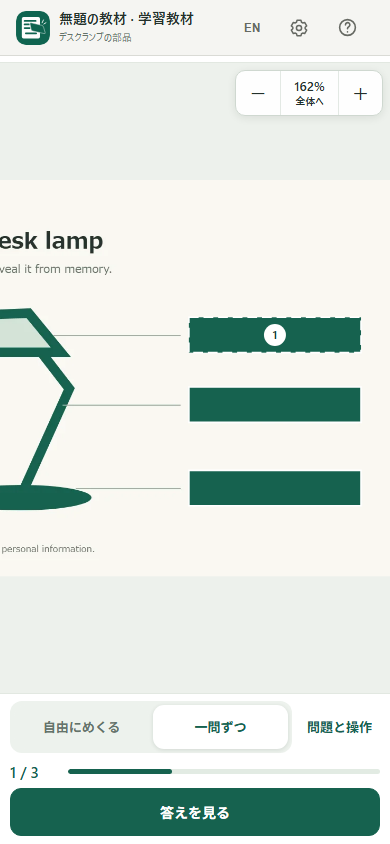
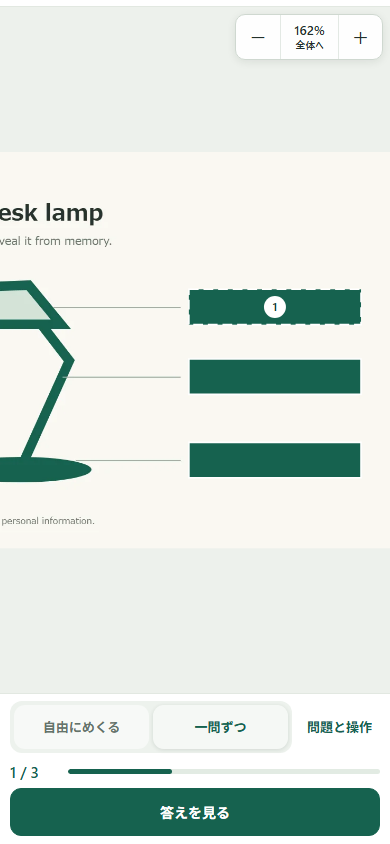
Hide the header while studying on a phone

diff --git a/src/index.template.html b/src/index.template.html
@@ -213,8 +213,8 @@ body:not(.has-pages) { padding-bottom:0; }
 #studyToolsButton { display:none; }
 @media (max-width:767px), (pointer:coarse) and (max-height:520px) {
   body.has-pages.study-mode { display:flex;flex-direction:column;height:100dvh;min-height:0;margin:0;padding:0;overflow:hidden; }
-  .study-mode .app-header { flex:none;padding-top:env(safe-area-inset-top); }
-  .study-mode .main { display:flex;flex:1;flex-direction:column;width:100%;min-height:0;margin:0;padding:0; }
+  .study-mode .app-header { display:none; }
+  .study-mode .main { display:flex;flex:1;flex-direction:column;width:100%;min-height:0;margin:0;padding:env(safe-area-inset-top,0px) 0 0; }
   .study-mode footer { display:none; }
   .study-mode .main .reveal-shell { display:flex;flex:1;flex-direction:column;min-height:0;height:auto;gap:0;margin:0;padding:0;border:0;border-radius:0;overflow:hidden;background:var(--surface); }
   .study-mode .main .reveal-grid { order:0;display:block;flex:1 1 0;min-width:0;min-height:0;margin:0; }
@@ -246,6 +246,9 @@ body:not(.has-pages) { padding-bottom:0; }
   .study-mode #freeStudyPanel.with-study-notes { min-height:calc(22px + clamp(44px,8dvh,76px)); }
   .study-mode #freeAnswerBox { max-height:clamp(44px,8dvh,76px);overflow:auto;margin:0; }
   .editor-sheet[data-sheet="study"] .dialog-body { display:grid;align-content:start;gap:12px; }
+  .editor-sheet[data-sheet="study"] .header-actions { justify-content:flex-start;flex-wrap:wrap;gap:6px;margin:0; }
+  .editor-sheet[data-sheet="study"] .header-actions button { display:inline-flex;align-items:center;justify-content:center;gap:6px;min-width:44px;min-height:44px;width:auto;padding:5px 8px; }
+  .editor-sheet[data-sheet="study"] #helpButton::after { content:attr(aria-label);font-size:13px; }
   .editor-sheet[data-sheet="study"] :is(.guided-secondary-actions,.study-actions,#questionList,#guidedQuestionList) { display:grid;grid-template-columns:repeat(2,minmax(0,1fr));gap:8px;margin:0;padding:0; }
   .editor-sheet[data-sheet="study"] :is(.button,.question-item) { min-height:46px;min-width:0;white-space:normal; }
   .editor-sheet[data-sheet="study"] .free-question { display:flex;flex-direction:column;align-items:start;gap:3px;width:100%;text-align:left;padding:8px 10px; }
@@ -544,7 +547,7 @@ body:not(.has-pages) { padding-bottom:0; }
           failures:'読み込めなかった画像',chooseAgain:'画像を選び直す',unnamedImage:'名前のない画像',totalImageSize:'画像の合計：',
           localDraftTitle:'この端末への作業保存',draftOptInLabel:'この端末に作業を残す',draftOptInNote:'ONにすると作業をこのブラウザに自動保存します。共有端末では使わないでください。',draftOptInTitle:'この端末に作業を残しますか？',draftOptInMessage:'画像と教材の文章をこのブラウザの保存領域へ保存します。外部へは送信しません。共有端末では使わず、ブラウザのデータ削除で消えることがあります。',draftOptInAction:'端末内保存をONにする',draftEnabled:'端末内保存はONです。変更後に自動保存します。',draftDisabled:'端末内保存はOFFです。手動の編集データ保存はいつでも使えます。',draftSaveWaiting:'変更を端末内へ保存する準備をしています。',draftSaving:'この端末に保存しています。',draftSaved:'この端末に保存しました（{time}）。',draftRestored:'この端末に残っていた作業を再開しました。',draftSaveFailed:'この端末には保存できていません。必要な作業は編集データとして手動保存してください。',draftUnavailable:'この起動方法またはブラウザでは端末内保存を利用できません。手動保存は利用できます。',draftConflictStatus:'別タブの変更があります。自動保存を停止しました。',draftConflictHelp:'現在の内容は画面に残しています。編集データを保存するか、別タブで確定した最新の端末内データを読み直してください。',resolveConflictSave:'編集データを保存する',resolveConflictReload:'最新を読み直す',resumeLocalTitle:'この端末の作業を再開しますか？',resumeLocalMessage:'このブラウザに前回の作業が残っています。再開しても答えの学習結果は自動復元しません。',resumeLocalAction:'続きから',startFreshAction:'最初から',reloadLocalTitle:'最新の端末内データを読み直しますか？',reloadLocalMessage:'現在画面の未保存変更は置き換わります。必要なら先に編集データを保存してください。',reloadLocalAction:'最新を読み直す',studyOptInLabel:'この端末に学習の続きだけを残す',studyOptInNote:'初期OFF。ONにすると画像を含まない小さい学習記録だけを保存します。教材そのものは再現できません。',studyOptInTitle:'学習の続きをこの端末に残しますか？',studyOptInMessage:'問題の進み具合と自己評価だけをこのブラウザに保存します。画像や教材ファイルは学習記録には含めません。共有端末ではOFFを推奨します。',studyOptInAction:'学習記録をONにする',studyEnabled:'学習記録はONです。学習中の進み具合を端末内に保存します。',studyDisabled:'学習記録はOFFです。学習はこの画面内だけで続けられます。',studySaveWaiting:'学習の続きを保存する準備をしています。',studySaving:'学習の続きをこの端末に保存しています。',studySaved:'学習の続きを保存しました（{time}）。',studyRestored:'保存されていた学習の続きから再開しました。答えは閉じた状態です。',studySaveFailed:'学習の続きはこの端末に保存できていません。学習自体は続けられます。',studyPersistenceUnavailable:'この起動方法またはブラウザでは学習記録の保存を利用できません。学習自体は利用できます。',studyConflictStatus:'別タブの学習記録が更新されました。このタブの学習記録保存を停止しました。',resumeStudyTitle:'学習の続きがあります',resumeStudyMessage:'この教材と内容が一致する学習の続きがこの端末にあります。答えを閉じた状態で続けますか？',resumeStudyAction:'続きから',startStudyFreshAction:'最初から',localClearTitle:'この端末の保存データを消す',localClearNote:'Reveal Sheetの保存だけを対象にします。教材の作業と学習記録は別々に消せます。',clearDraftButton:'端末の作業を消す',clearStudyButton:'学習記録を消す',clearDraftTitle:'この端末の作業を消しますか？',clearDraftMessage:'このブラウザに保存したReveal Sheetの教材・画像を削除し、作業保存をOFFにします。現在画面の教材や学習記録、他のWebサイトのデータは消しません。',clearDraftAction:'端末の作業を消す',draftCleared:'この端末に保存した作業を削除しました。',clearStudyTitle:'学習記録を消しますか？',clearStudyMessage:'このブラウザに保存したReveal Sheetの学習の続きを削除し、学習記録をOFFにします。教材・画像や他のWebサイトのデータは消しません。',clearStudyAction:'学習記録を消す',studyCleared:'この端末の学習記録を削除しました。',
           outputFilename:'ファイル名',savePanelTitle:'教材を保存',saveOverviewLabel:'教材の概要',saveOutputGroup:'保存方法',saveEditableTitle:'あとから編集する',saveEditableDescription:'覆いや問題を直せるファイルを保存します。',saveLessonTitle:'めくって学習する',saveLessonDescription:'ブラウザーで開けば、そのまま学習できます。人に渡す教材にも使えます。',saveFileDetails:'内容と容量の詳細',saveEditable:'編集用ファイルを保存',saveLesson:'学習用HTMLを保存',previewLesson:'保存前にプレビュー',lessonPreviewTitle:'教材HTMLプレビュー',lessonPreviewNote:'このプレビューは別の一時学習です。ここでめくっても、現在の学習結果や端末内の学習記録は更新しません。',saveIncludesImages:'どちらも画像と覆いを含みます。教材HTMLは学習専用で、個人の学習結果やUndo履歴、元ファイル名を含めません。',savePages:'ページ',saveQuestions:'問題',saveAuxiliary:'補助の覆い',saveImageSize:'画像容量',saveEditableSize:'編集データ容量',saveLessonSize:'教材HTML容量',openingSheet:'教材を確認しています。',sheetOpened:'教材を開きました。',sheetOpenCancelled:'教材の置き換えをキャンセルしました。',saveDiagnosticSummary:'保存エラーの詳細',saveDiagReady:'保存に失敗した場合は、ここに診断情報を表示します。',saveDiagnosticHint:'ファイル名や画像の内容は含まれません。',copySaveDiagnostic:'診断情報をコピー',saveDiagnosticCopied:'診断情報をコピーしました。',saveDiagnosticCopyFailed:'コピーできませんでした。診断コードを選択してコピーしてください。',exportChoose:'保存する形式を選んでください。ファイルは保存するときに準備します。',saveSizeOnDemand:'保存時に計算',exportPreparing:'保存用ファイルを準備しています。',exportReady:'保存用ファイルの容量を確認しました。',exportChanged:'表示を切り替えたため、準備中だった保存用ファイルを破棄しました。保存するときにもう一度準備します。',saveStarted:'保存を開始しました。ブラウザまたはOS側で保存を完了してください。',replaceSheetTitle:'現在の教材を置き換えますか？',replaceSheetMessage:'選んだ教材ファイルの検証は完了しています。現在の教材を置き換えます。未保存の変更がある場合は先に保存してください。',replaceSheetAction:'この教材を開く',
-          undone:'直前の編集を元に戻しました。',redone:'編集をやり直しました。',newTitle:'新しい教材にしますか？',newMessage:'現在の{count}ページと追加中の画像を閉じます。未保存の変更はあとから復元できません。',newAction:'新しい教材にする',confirmTitle:'確認',confirmAction:'実行する',cancel:'キャンセル',helpTitle:'使い方と注意事項',close:'閉じる',helpBasicsTitle:'基本操作',helpMobileTitle:'スマートフォンでの編集',helpStudyReading:'学習中は2本指で拡大できます。「一問ずつ」では今の問題を大きく表示します。全体を見るには倍率の数字を押してください。ページの切り替えや問題一覧は「問題と操作」から開けます。',helpMobileBody:'画像を追加すると、画像を中心にした編集画面になります。下部の「覆いを置く」でドラッグして覆いを作り、「画像を動かす」で画像を動かします。2本指では、どちらのモードでも拡大・縮小できます。選んだ覆いは「微調整」で移動や大きさを調整し、横のボタンで複製・削除できます。ページ名を押すとページ一覧、「覆い一覧」では問題の設定が開きます。画像追加・撮影・色・端末内保存は「その他」から開けます。',
+          undone:'直前の編集を元に戻しました。',redone:'編集をやり直しました。',newTitle:'新しい教材にしますか？',newMessage:'現在の{count}ページと追加中の画像を閉じます。未保存の変更はあとから復元できません。',newAction:'新しい教材にする',confirmTitle:'確認',confirmAction:'実行する',cancel:'キャンセル',helpTitle:'使い方と注意事項',close:'閉じる',helpBasicsTitle:'基本操作',helpMobileTitle:'スマートフォンでの編集',helpStudyReading:'学習中は2本指で拡大できます。「一問ずつ」では今の問題を大きく表示します。全体を見るには倍率の数字を押してください。ページの切り替え、問題一覧、使い方、言語の切り替えは「問題と操作」から開けます。',helpMobileBody:'画像を追加すると、画像を中心にした編集画面になります。下部の「覆いを置く」でドラッグして覆いを作り、「画像を動かす」で画像を動かします。2本指では、どちらのモードでも拡大・縮小できます。選んだ覆いは「微調整」で移動や大きさを調整し、横のボタンで複製・削除できます。ページ名を押すとページ一覧、「覆い一覧」では問題の設定が開きます。画像追加・撮影・色・端末内保存は「その他」から開けます。',
           helpStep1:'「画像を追加」でJPEG・静止PNG・静止WebPを選びます。パソコンではファイルのドロップや画像ファイルの貼り付けも利用できます。',
           helpStep2:'読み込めた画像はカードとして並びます。カードの名前と説明をその場で編集でき、左端のハンドルをドラッグして順番を変えられます。ごみ箱ボタンでページを削除できます。',
           helpStep3:'「保存」では編集データに加え、一問以上あれば学習専用HTMLを保存・プレビューできます。「教材を開く」では編集データまたはReveal Sheetの教材HTMLを選べます。教材HTMLは外側のコードを実行せず、埋め込みデータだけを検証して再編集します。',
@@ -567,7 +570,7 @@ body:not(.has-pages) { padding-bottom:0; }
           processing:'Checking images: {done} / {total}',addedStatus:'Added {added} images.',partialStatus:'Added {added} images. Could not open {failed} images.',cancelledStatus:'Stopped adding images. Kept the {added} completed images.',cancelling:'Stopping image import.',stop:'Stop',preparing:'Preparing the image.',imageAlt:'Editing image for {name}',unchangedSize:'Orientation fixed · Not resized',
           failures:'Images that could not be opened',chooseAgain:'Choose images again',unnamedImage:'Unnamed image',totalImageSize:'Total image size:',localDraftTitle:'On-device work saving',draftOptInLabel:'Keep this work on this device',draftOptInNote:'Turn this on to save your work automatically in this browser. Avoid using it on shared devices.',draftOptInTitle:'Keep this work on this device?',draftOptInMessage:'Images and sheet text will be stored in this browser. Nothing is sent outside. Avoid this on shared devices; browser data clearing can remove the saved work.',draftOptInAction:'Enable on-device saving',draftEnabled:'On-device saving is on. Changes will be saved automatically.',draftDisabled:'On-device saving is off. Manual editable-sheet saving remains available.',draftSaveWaiting:'Preparing to save the change on this device.',draftSaving:'Saving on this device.',draftSaved:'Saved on this device ({time}).',draftRestored:'Resumed work saved on this device.',draftSaveFailed:'This work is not saved on this device. Export an editable sheet to keep it.',draftUnavailable:'On-device saving is unavailable in this browser or launch mode. Manual saving still works.',draftConflictStatus:'There are changes from another tab. Automatic saving has stopped.',draftConflictHelp:'Your current in-memory work is still here. Export it, or reload the latest on-device copy committed by the other tab.',resolveConflictSave:'Save editable sheet',resolveConflictReload:'Reload latest',resumeLocalTitle:'Resume work saved on this device?',resumeLocalMessage:'This browser contains a previous saved draft. Resuming it does not automatically restore personal study results.',resumeLocalAction:'Continue',startFreshAction:'Start fresh',reloadLocalTitle:'Reload the latest on-device copy?',reloadLocalMessage:'Unsaved changes currently on screen will be replaced. Export an editable sheet first if you need to keep them.',reloadLocalAction:'Reload latest',studyOptInLabel:'Keep only study progress on this device',studyOptInNote:'Off by default. When enabled, only a small study-session record without images is stored. It cannot reconstruct the sheet by itself.',studyOptInTitle:'Keep study progress on this device?',studyOptInMessage:'Question progress and self-assessment are stored in this browser. The study record does not include images or the sheet file. Leave it off on shared devices.',studyOptInAction:'Enable study progress',studyEnabled:'Study progress saving is on.',studyDisabled:'Study progress saving is off. Studying still works in this tab.',studySaveWaiting:'Preparing to save study progress.',studySaving:'Saving study progress on this device.',studySaved:'Saved study progress ({time}).',studyRestored:'Resumed saved study progress with the answer closed.',studySaveFailed:'Study progress could not be saved on this device. Studying still works.',studyPersistenceUnavailable:'Study-progress persistence is unavailable in this browser or launch mode. Studying still works.',studyConflictStatus:'Another tab updated this study record. Saving study progress from this tab has stopped.',resumeStudyTitle:'Saved study progress found',resumeStudyMessage:'This device has study progress for the exact same sheet content. Continue with the current answer closed?',resumeStudyAction:'Continue study',startStudyFreshAction:'Start from beginning',localClearTitle:'Clear data saved on this device',localClearNote:'Only Reveal Sheet storage is affected. Saved work and study progress can be cleared separately.',clearDraftButton:'Clear saved work',clearStudyButton:'Clear study progress',clearDraftTitle:'Clear saved work on this device?',clearDraftMessage:'Delete Reveal Sheet sheet/image data saved in this browser and turn off work saving. The current in-memory sheet, study progress, and other websites’ data are not cleared.',clearDraftAction:'Clear saved work',draftCleared:'Cleared Reveal Sheet work saved on this device.',clearStudyTitle:'Clear study progress?',clearStudyMessage:'Delete Reveal Sheet study-progress records saved in this browser and turn off study-progress saving. Sheet images and other websites’ data are not cleared.',clearStudyAction:'Clear study progress',studyCleared:'Cleared study progress saved on this device.',
           outputFilename:'Filename',savePanelTitle:'Save your sheet',saveOverviewLabel:'Sheet summary',saveOutputGroup:'Save formats',saveEditableTitle:'Keep editing later',saveEditableDescription:'Save a file you can reopen to edit covers and questions.',saveLessonTitle:'Study by revealing answers',saveLessonDescription:'Opens directly in a browser. Use it to study or share it with someone else.',saveFileDetails:'File contents and sizes',saveEditable:'Save editable file',saveLesson:'Save study HTML',previewLesson:'Preview before saving',lessonPreviewTitle:'Lesson HTML preview',lessonPreviewNote:'This preview uses a separate temporary study session. Revealing here does not update your current or saved study progress.',saveIncludesImages:'Both outputs include images and covers. Lesson HTML is study-only and excludes personal study results, Undo history, and original filenames.',savePages:'Pages',saveQuestions:'Questions',saveAuxiliary:'Auxiliary covers',saveImageSize:'Image data',saveEditableSize:'Editable data size',saveLessonSize:'Lesson HTML size',openingSheet:'Checking the sheet.',sheetOpened:'Opened the sheet.',sheetOpenCancelled:'Kept the current sheet.',saveDiagnosticSummary:'Save error details',saveDiagReady:'If saving fails, diagnostic details will appear here.',saveDiagnosticHint:'No filenames or image contents are included.',copySaveDiagnostic:'Copy diagnostic details',saveDiagnosticCopied:'Diagnostic details copied.',saveDiagnosticCopyFailed:'Could not copy automatically. Select the diagnostic code and copy it.',exportChoose:'Choose a format to save. The file is prepared only when you select it.',saveSizeOnDemand:'Calculated when saving',exportPreparing:'Preparing the file to save.',exportReady:'Measured the files ready to save.',exportChanged:'The in-progress export was discarded after the view changed. It will be prepared again when you save.',saveStarted:'Started saving. Finish the save in your browser or operating system.',replaceSheetTitle:'Replace the current sheet?',replaceSheetMessage:'The selected Reveal Sheet file has passed validation. Opening it replaces the current sheet. Save any changes you want to keep first.',replaceSheetAction:'Open this sheet',undone:'Undid the previous edit.',redone:'Redid the edit.',
-          newTitle:'Start a new sheet?',newMessage:'Close the current {count} pages and stop any import. Unsaved changes cannot be recovered.',newAction:'Start new sheet',confirmTitle:'Confirm',confirmAction:'Continue',cancel:'Cancel',helpTitle:'How to use & notes',close:'Close',helpBasicsTitle:'Basics',helpMobileTitle:'Editing on a phone',helpStudyReading:'Pinch to zoom while studying. One at a time zooms in on the current question on a phone. Tap the percentage to see the whole image. Open Study tools for pages and questions.',helpMobileBody:'After adding an image, use the tools below it: Place covers to draw, or Move image to pan. Pinch with two fingers to zoom in either mode. Select a cover and use Adjust for precise movement or resizing; the adjacent buttons duplicate or delete it. Tap the page name to manage pages, or Covers to edit questions. More contains image import, camera, cover color and local-saving settings.',
+          newTitle:'Start a new sheet?',newMessage:'Close the current {count} pages and stop any import. Unsaved changes cannot be recovered.',newAction:'Start new sheet',confirmTitle:'Confirm',confirmAction:'Continue',cancel:'Cancel',helpTitle:'How to use & notes',close:'Close',helpBasicsTitle:'Basics',helpMobileTitle:'Editing on a phone',helpStudyReading:'Pinch to zoom while studying. One at a time zooms in on the current question on a phone. Tap the percentage to see the whole image. Open Study tools to choose a page or question, switch languages, or read the help.',helpMobileBody:'After adding an image, use the tools below it: Place covers to draw, or Move image to pan. Pinch with two fingers to zoom in either mode. Select a cover and use Adjust for precise movement or resizing; the adjacent buttons duplicate or delete it. Tap the page name to manage pages, or Covers to edit questions. More contains image import, camera, cover color and local-saving settings.',
           helpStep1:'Choose JPEG, static PNG or static WebP files with Add images. On a desktop, you can also drop files or paste an image file.',helpStep2:'Accepted images appear as page cards. Edit the name or description in the card, drag the handle to reorder, or use the trash button to delete a page. Failed images appear separately.',helpStep3:'Save can export editable data or, when at least one question exists, a self-contained study lesson HTML with an isolated preview. Open a sheet accepts editable data or Reveal Sheet lesson HTML; lesson outer code is not executed and only validated embedded data is used for re-editing.',
           helpQuestionOrder:'Select an answer cover and use Move earlier / Move later in Question content to change its order within the page. A grouped question moves together. New study sessions and saved files use the new order; Undo and Redo are available. Duplicating a cover preserves its entire question group and prompt/answer text; auxiliary copies stay auxiliary.',helpPrivacyTitle:'Privacy and your work',helpPrivacyBody:'Images, editable data and lesson HTML are processed inside this browser and are not sent outside. Lesson HTML contains source images and answers but excludes personal study results, Undo history, view state and original filenames. Incoming lesson outer code is not executed. On-device saving remains separately opt-in.',helpNotesTitle:'Formats and limits',helpAccessibilityTitle:'Keyboard and screen readers',helpAccessibilityBody:'Main controls work with Tab and Enter/Space. A selected cover moves by one image pixel with the arrow keys, by 10 with Shift+Arrow, and resizes with Alt+Arrow. Reveal Sheet does not automatically read text that exists only inside image pixels. When plain-text prompts or answers are present in a sheet, answer text is not exposed to assistive output until it is revealed.',helpAccessibilityTitle:'Keyboard and screen readers',helpAccessibilityBody:'Main controls work with Tab and Enter/Space. A selected cover moves by one image pixel with the arrow keys, by 10 with Shift+Arrow, and resizes with Alt+Arrow. Reveal Sheet does not automatically read text that exists only inside image pixels. When plain-text prompts or answers are present in a sheet, answer text is not exposed to assistive output until it is revealed.',
           limitsNote:'Up to 30 pages. Input: 20 MiB per image, 8192 px per side and 16 million pixels. Normalized image: 32 MiB each, 64 MiB total. These are safety limits, not a guarantee of device capacity.',unsupportedNote:'GIF, animated PNG / WebP, SVG, HEIC / HEIF, AVIF and PDF are not supported. Pasting a URL or HTML does not fetch images.',

diff --git a/src/reveal/player.js b/src/reveal/player.js
@@ -9,19 +9,19 @@ function createPlayer({core,projectIO,persistence,env,envelope}) {
   let sheetKind='',sheetOpener=null,sheetMoves=[];
   const pointers=new Map();let imageGesture=null,suppressTapUntil=0;
   const tr={
-    ja:{titleSuffix:'学習教材',free:'自由にめくる',guided:'一問ずつ',checked:'確認済み',hideAll:'全部隠す',revealPage:'このページの答えをすべて表示',reveal:'答えを見る',recalled:'思い出せた',again:'もう一度',skip:'飛ばす',previous:'前の問題',finish:'学習を終える',results:'今回の結果',total:'対象',unanswered:'未回答',reviewAgain:'もう一度だけ確認',reviewUnchecked:'未確認を確認',otherAnswers:'ほかの答え',hideOthers:'ほかの答えも隠す',showOthers:'ほかの答えは見せる',pagesLabel:'ページ',coversLabel:'画像上の覆い',questionsLabel:'問題',coverLabel:'覆い',studyTools:'問題と操作',wholeImage:'全体へ',hideOpenAnswer:'答えを隠す',coveredAnswerLabel:'閉じている答え',subtitle:'画像で学ぶ暗記シート',pagePosition:'{current} / {total}ページ',previousPage:'前のページ',nextPage:'次のページ',openPages:'ページ一覧',settings:'設定・保存',questions:'問題一覧',studyMode:'学習方法',zoomControls:'画像の拡大・縮小',zoomIn:'拡大',zoomOut:'縮小',zoomFit:'全体表示へ戻す',filenameLabel:'ファイル名',close:'閉じる',rating_unanswered:'未回答',rating_recalled:'思い出せた',rating_again:'もう一度',rating_skipped:'飛ばした',revealedAnswerText:'表示中の答え（平文）',saveEditable:'編集データを保存',saveConfirmTitle:'編集データを保存しますか？',saveConfirm:'画像・ページ・問題・覆いを含む編集データを保存します。個人の学習結果は含めません。',saveAction:'保存を開始',cancel:'キャンセル',help:'使い方と注意事項',helpBody:'覆いは押すたびに開閉します。スマホで「一問ずつ」を選ぶと、その問題が拡大されます。画像全体を見るには倍率の数字を押してください。TabとEnter／Spaceでも主要操作を使えます。画像だけに写っている文字は自動では読み上げられません。平文の答えがある場合も、答えをめくるまでは読み上げ対象へ出しません。この教材を直す場合はReveal Sheet本体でこの.reveal.htmlを選び直してください。',studySave:'この端末に学習の続きだけを残す',studySaveNote:'初期OFF。画像は保存せず、この教材に一致する小さい学習記録だけを保存します。',studyUnavailable:'この起動方法では学習記録を保存できません。学習自体は利用できます。',studySaved:'学習の続きを端末内に保存しました。',studyOff:'学習記録はOFFです。',enableStudyTitle:'学習の続きをこの端末に残しますか？',enableStudyMessage:'問題の進み具合と自己評価だけをこのブラウザに保存します。画像は学習記録に含めません。',enable:'ONにする',resumeTitle:'学習の続きがあります',resumeMessage:'この教材と内容が一致する学習の続きがあります。答えを閉じた状態で再開しますか？',continue:'続きから',fresh:'最初から',saveStarted:'ダウンロードを開始しました。',saveFailed:'編集データを保存できませんでした。'},
-    en:{titleSuffix:'Study lesson',free:'Reveal freely',guided:'One at a time',checked:'Checked',hideAll:'Hide all',revealPage:'Reveal all answers on this page',reveal:'Reveal answer',recalled:'Recalled',again:'Review again',skip:'Skip',previous:'Previous',finish:'Finish study',results:'This session',total:'Total',unanswered:'Unanswered',reviewAgain:'Review again only',reviewUnchecked:'Review unchecked',otherAnswers:'Other answers',hideOthers:'Hide other answers',showOthers:'Show other answers',pagesLabel:'Pages',coversLabel:'Image covers',questionsLabel:'Questions',coverLabel:'Cover',studyTools:'Study tools',wholeImage:'Fit image',hideOpenAnswer:'Hide answer',coveredAnswerLabel:'Covered answer',subtitle:'Study from your images',pagePosition:'Page {current} of {total}',previousPage:'Previous page',nextPage:'Next page',openPages:'Page list',settings:'Settings & save',questions:'Question list',studyMode:'Study mode',zoomControls:'Image zoom',zoomIn:'Zoom in',zoomOut:'Zoom out',zoomFit:'Fit image',filenameLabel:'Filename',close:'Close',rating_unanswered:'Unanswered',rating_recalled:'Recalled',rating_again:'Review again',rating_skipped:'Skipped',revealedAnswerText:'Revealed answer text',saveEditable:'Save editable sheet',saveConfirmTitle:'Save editable sheet?',saveConfirm:'Save images, pages, questions and covers as editable data. Personal study results are not included.',saveAction:'Start save',cancel:'Cancel',help:'How to use & notes',helpBody:'Tap a cover to show or hide an answer. On a phone, One at a time zooms in on the question. Tap the percentage to see the whole page. Main controls also work with Tab and Enter/Space. Reveal Sheet does not automatically read text that exists only in image pixels. Plain-text answer content, when present, is not exposed to assistive output until it is revealed. To edit this lesson, open Reveal Sheet and choose this .reveal.html file again.',studySave:'Keep only study progress on this device',studySaveNote:'Off by default. Stores only a small matching study record without images.',studyUnavailable:'Study progress cannot be saved in this launch mode. Studying still works.',studySaved:'Saved study progress on this device.',studyOff:'Study progress saving is off.',enableStudyTitle:'Keep study progress on this device?',enableStudyMessage:'Only question progress and self-assessment are stored in this browser. Images are not stored in the study record.',enable:'Enable',resumeTitle:'Saved study progress found',resumeMessage:'Matching study progress exists for this exact lesson. Continue with the current answer closed?',continue:'Continue',fresh:'Start fresh',saveStarted:'Download started.',saveFailed:'Could not save the editable sheet.'}
+    ja:{titleSuffix:'学習教材',free:'自由にめくる',guided:'一問ずつ',checked:'確認済み',hideAll:'全部隠す',revealPage:'このページの答えをすべて表示',reveal:'答えを見る',recalled:'思い出せた',again:'もう一度',skip:'飛ばす',previous:'前の問題',finish:'学習を終える',results:'今回の結果',total:'対象',unanswered:'未回答',reviewAgain:'もう一度だけ確認',reviewUnchecked:'未確認を確認',otherAnswers:'ほかの答え',hideOthers:'ほかの答えも隠す',showOthers:'ほかの答えは見せる',pagesLabel:'ページ',coversLabel:'画像上の覆い',questionsLabel:'問題',coverLabel:'覆い',studyTools:'問題と操作',wholeImage:'全体へ',hideOpenAnswer:'答えを隠す',coveredAnswerLabel:'閉じている答え',subtitle:'画像で学ぶ暗記シート',pagePosition:'{current} / {total}ページ',previousPage:'前のページ',nextPage:'次のページ',openPages:'ページ一覧',settings:'設定・保存',questions:'問題一覧',studyMode:'学習方法',zoomControls:'画像の拡大・縮小',zoomIn:'拡大',zoomOut:'縮小',zoomFit:'全体表示へ戻す',filenameLabel:'ファイル名',close:'閉じる',rating_unanswered:'未回答',rating_recalled:'思い出せた',rating_again:'もう一度',rating_skipped:'飛ばした',revealedAnswerText:'表示中の答え（平文）',saveEditable:'編集データを保存',saveConfirmTitle:'編集データを保存しますか？',saveConfirm:'画像・ページ・問題・覆いを含む編集データを保存します。個人の学習結果は含めません。',saveAction:'保存を開始',cancel:'キャンセル',help:'使い方と注意事項',helpBody:'覆いは押すたびに開閉します。スマホで「一問ずつ」を選ぶと、その問題が拡大されます。画像全体を見るには倍率の数字を押してください。「問題と操作」から言語の切り替え、設定、使い方を開けます。TabとEnter／Spaceでも主要操作を使えます。画像だけに写っている文字は自動では読み上げられません。平文の答えがある場合も、答えをめくるまでは読み上げ対象へ出しません。この教材を直す場合はReveal Sheet本体でこの.reveal.htmlを選び直してください。',studySave:'この端末に学習の続きだけを残す',studySaveNote:'初期OFF。画像は保存せず、この教材に一致する小さい学習記録だけを保存します。',studyUnavailable:'この起動方法では学習記録を保存できません。学習自体は利用できます。',studySaved:'学習の続きを端末内に保存しました。',studyOff:'学習記録はOFFです。',enableStudyTitle:'学習の続きをこの端末に残しますか？',enableStudyMessage:'問題の進み具合と自己評価だけをこのブラウザに保存します。画像は学習記録に含めません。',enable:'ONにする',resumeTitle:'学習の続きがあります',resumeMessage:'この教材と内容が一致する学習の続きがあります。答えを閉じた状態で再開しますか？',continue:'続きから',fresh:'最初から',saveStarted:'ダウンロードを開始しました。',saveFailed:'編集データを保存できませんでした。'},
+    en:{titleSuffix:'Study lesson',free:'Reveal freely',guided:'One at a time',checked:'Checked',hideAll:'Hide all',revealPage:'Reveal all answers on this page',reveal:'Reveal answer',recalled:'Recalled',again:'Review again',skip:'Skip',previous:'Previous',finish:'Finish study',results:'This session',total:'Total',unanswered:'Unanswered',reviewAgain:'Review again only',reviewUnchecked:'Review unchecked',otherAnswers:'Other answers',hideOthers:'Hide other answers',showOthers:'Show other answers',pagesLabel:'Pages',coversLabel:'Image covers',questionsLabel:'Questions',coverLabel:'Cover',studyTools:'Study tools',wholeImage:'Fit image',hideOpenAnswer:'Hide answer',coveredAnswerLabel:'Covered answer',subtitle:'Study from your images',pagePosition:'Page {current} of {total}',previousPage:'Previous page',nextPage:'Next page',openPages:'Page list',settings:'Settings & save',questions:'Question list',studyMode:'Study mode',zoomControls:'Image zoom',zoomIn:'Zoom in',zoomOut:'Zoom out',zoomFit:'Fit image',filenameLabel:'Filename',close:'Close',rating_unanswered:'Unanswered',rating_recalled:'Recalled',rating_again:'Review again',rating_skipped:'Skipped',revealedAnswerText:'Revealed answer text',saveEditable:'Save editable sheet',saveConfirmTitle:'Save editable sheet?',saveConfirm:'Save images, pages, questions and covers as editable data. Personal study results are not included.',saveAction:'Start save',cancel:'Cancel',help:'How to use & notes',helpBody:'Tap a cover to show or hide an answer. On a phone, One at a time zooms in on the question. Tap the percentage to see the whole page. On a phone, open Study tools for language, settings, and help. Main controls also work with Tab and Enter/Space. Reveal Sheet does not automatically read text that exists only in image pixels. Plain-text answer content, when present, is not exposed to assistive output until it is revealed. To edit this lesson, open Reveal Sheet and choose this .reveal.html file again.',studySave:'Keep only study progress on this device',studySaveNote:'Off by default. Stores only a small matching study record without images.',studyUnavailable:'Study progress cannot be saved in this launch mode. Studying still works.',studySaved:'Saved study progress on this device.',studyOff:'Study progress saving is off.',enableStudyTitle:'Keep study progress on this device?',enableStudyMessage:'Only question progress and self-assessment are stored in this browser. Images are not stored in the study record.',enable:'Enable',resumeTitle:'Saved study progress found',resumeMessage:'Matching study progress exists for this exact lesson. Continue with the current answer closed?',continue:'Continue',fresh:'Start fresh',saveStarted:'Download started.',saveFailed:'Could not save the editable sheet.'}
   };
   const t=key=>tr[language][key]||key;
   function confirmAsk({title,message,ok,cancel=t('cancel')}){return new Promise(resolve=>{pendingConfirm=resolve;$('lessonConfirmTitle').textContent=title;$('lessonConfirmMessage').textContent=message;$('lessonConfirmOk').textContent=ok;$('lessonConfirmCancel').textContent=cancel;$('lessonConfirmDialog').showModal();});}
   function settleConfirm(value){const fn=pendingConfirm;pendingConfirm=null;fn?.(value);}
   function finishConfirm(value){if(!$('lessonConfirmDialog').open)return;settleConfirm(value);$('lessonConfirmDialog').close();}
-  function restoreSheet(){
+  function restoreSheet({restoreFocus=true}={}){
     if(!sheetKind&&!sheetMoves.length)return;
     for(const {node,placeholder} of sheetMoves)placeholder.replaceWith(node);
     sheetMoves=[];const opener=sheetOpener;sheetKind='';sheetOpener=null;
     $('lessonPageToggle').setAttribute('aria-expanded','false');
-    if(opener?.isConnected&&!opener.disabled&&opener.getClientRects().length)opener.focus({preventScroll:true});
+    if(restoreFocus&&opener?.isConnected&&!opener.disabled&&opener.getClientRects().length)opener.focus({preventScroll:true});
   }
   function closeSheet(){
     const dialog=$('lessonSheet');if(dialog.open)dialog.close();restoreSheet();
@@ -31,12 +31,14 @@ function createPlayer({core,projectIO,persistence,env,envelope}) {
     if(!mobileLayout.matches&&kind!=='settings')return;
     const selectors={
       pages:['#lessonPages'],
-      questions:mode==='guided'?['.lesson-guided-secondary','#lessonGuidedList']:['.lesson-free-actions','#lessonQuestionList'],
+      questions:['.lesson-header-copy','.lesson-header-actions',...(mode==='guided'?['.lesson-guided-secondary','#lessonGuidedList']:['.lesson-free-actions','#lessonQuestionList'])],
       settings:[...(mode==='guided'?['#lessonOtherOptions']:[]),'#lessonPersistence','#lessonSave']
     };
     if(!selectors[kind])return;
-    closeSheet();
-    sheetKind=kind;sheetOpener=opener||env.document.activeElement;
+    const dialog=$('lessonSheet');
+    const returnTo=dialog.open?sheetOpener:opener||env.document.activeElement;
+    restoreSheet({restoreFocus:false});
+    sheetKind=kind;sheetOpener=returnTo;
     const body=$('lessonSheetBody');body.replaceChildren();
     for(const selector of selectors[kind]){
       const node=env.document.querySelector(selector);if(!node)continue;
@@ -45,7 +47,8 @@ function createPlayer({core,projectIO,persistence,env,envelope}) {
     }
     $('lessonSheetTitle').textContent=t({pages:'pagesLabel',questions:'studyTools',settings:'settings'}[kind]);
     $('lessonPageToggle').setAttribute('aria-expanded',String(kind==='pages'));
-    $('lessonSheet').showModal();$('lessonSheetClose').focus({preventScroll:true});
+    if(!dialog.open)dialog.showModal();
+    $('lessonSheetClose').focus({preventScroll:true});
   }
   function refreshNavigation(){
     const index=doc.pages.findIndex(item=>item.id===pageId);
@@ -55,7 +58,6 @@ function createPlayer({core,projectIO,persistence,env,envelope}) {
     env.document.body.classList.toggle('single-lesson-page',doc.pages.length===1);
     $('lessonPrevPage').disabled=index<=0;
     $('lessonNextPage').disabled=index<0||index>=doc.pages.length-1;
-    $('lessonQuestionsButton').disabled=!session.queue.length;
   }
   function refreshZoom(){
     if(!studyView)return;
@@ -265,7 +267,7 @@ function createPlayer({core,projectIO,persistence,env,envelope}) {
     $('lessonSettingsButton').addEventListener('click',event=>openSheet('settings',event.currentTarget));
     $('lessonQuestionsButton').addEventListener('click',event=>openSheet('questions',event.currentTarget));
     $('lessonSheetClose').addEventListener('click',closeSheet);
-    $('lessonSheet').addEventListener('close',restoreSheet);
+    $('lessonSheet').addEventListener('close',()=>{if(!$('lessonSheet').open)restoreSheet();});
     $('lessonSheet').addEventListener('click',event=>{
       if(event.target!==$('lessonSheet'))return;
       const bounds=event.currentTarget.getBoundingClientRect();

diff --git a/src/player.template.html b/src/player.template.html
@@ -86,13 +86,13 @@ html,.lesson-body{max-width:100%;overflow-x:hidden}
 .lesson-sheet .lesson-persistence:first-child,.lesson-sheet .lesson-save:first-child{margin-top:0;border-top:0;padding-top:0}
 @media (max-width:720px), (min-width:721px) and (pointer:coarse) and (max-height:500px){
   .lesson-body.lesson-active{display:flex;flex-direction:column;height:100dvh;min-height:0;overflow:hidden}
-  .lesson-active .lesson-header{flex:0 0 auto;padding-top:env(safe-area-inset-top)}
+  .lesson-active .lesson-header{display:none}
   .lesson-active .lesson-header-inner{width:100%;min-height:55px;padding:4px max(10px,env(safe-area-inset-right)) 4px max(10px,env(safe-area-inset-left));gap:9px}
   .lesson-active .lesson-icon{width:34px;height:34px}
   .lesson-active .lesson-header-copy h1{font-size:14px}
   .lesson-active .lesson-header-copy p{font-size:10px}
   .lesson-active .lesson-header-actions{gap:1px}
-  .lesson-active .lesson-main{flex:1 1 auto;display:flex;flex-direction:column;min-height:0;width:100%;margin:0;padding:0}
+  .lesson-active .lesson-main{flex:1 1 auto;display:flex;flex-direction:column;min-height:0;width:100%;margin:0;padding:env(safe-area-inset-top,0px) 0 0}
   .lesson-active #lessonReady{display:flex;flex:1 1 auto;flex-direction:column;min-height:0}
   .lesson-active .lesson-layout{display:flex;flex:1 1 auto;flex-direction:column;gap:0;min-height:0;padding:0}
   .lesson-active .lesson-layout>.lesson-pages{display:none}
@@ -292,6 +292,10 @@ html,.lesson-body{max-width:100%;overflow-x:hidden}
   .single-lesson-page .lesson-preview,.single-lesson-page .lesson-study{grid-row:1}
 }
 @media (max-width:720px), (min-width:721px) and (pointer:coarse) and (max-height:500px){
+  .lesson-sheet-body .lesson-header-copy{margin:0 0 4px;overflow-wrap:anywhere}
+  .lesson-sheet-body .lesson-header-actions{display:flex;flex-wrap:wrap;justify-content:flex-start;gap:6px;margin:0 0 10px}
+  .lesson-sheet-body .lesson-header-actions button{display:inline-flex;align-items:center;justify-content:center;gap:5px;min-height:44px;min-width:44px;width:auto;padding:5px 8px}
+  .lesson-sheet-body :is(#lessonHelpButton,#lessonSettingsButton)::after{content:attr(aria-label);font-size:13px}
   .lesson-active .lesson-command-row{display:flex;align-items:center;gap:7px}
   .lesson-active .lesson-mode-switch{flex:1;min-width:0}
   .lesson-active .lesson-mobile-extras{display:block;flex:none;margin:0}

diff --git a/src/reveal/editor.js b/src/reveal/editor.js
@@ -133,7 +133,7 @@ function createEditor({core,imageIO,projectIO,persistence,playerTemplate,appVers
     const studying=kind==='study';
     if(!(studying?studyLayout:mobileLayout).matches||mode!==(studying?'study':'create')||!currentPage())return;
     const studyTools=studyMode==='free'?['#studyPageChoice','#studyPageDescription','#freeStudyPanel .study-actions','#questionList']:['#studyPageDescription','.guided-secondary-actions','#guidedSettings','#guidedQuestionList'];
-    const selectors={study:studyTools,pages:['.page-panel'],covers:['#coverPanel'],tools:['#editControls','#failureSection','.image-meta-row','#localDraftPanel','.data-notice']};
+    const selectors={study:['.app-header .header-actions',...studyTools],pages:['.page-panel'],covers:['#coverPanel'],tools:['#editControls','#failureSection','.image-meta-row','#localDraftPanel','.data-notice']};
     if(!selectors[kind]||(kind!=='tools'&&busy))return;
     cancelTransientInteraction();closeEditorSheet({restoreFocus:false});fineAdjustOpen=false;
     editorSheetKind=kind;editorSheetOpener=opener||env.document.activeElement;

diff --git a/APP_SPEC.md b/APP_SPEC.md
@@ -383,7 +383,7 @@ IndexedDBが利用可能なら、教材スナップショットとPNG Blobを同
 
 ### 18.1 画面構成
 
-PCはページ一覧、中央画像、選択対象の操作を同時表示する。スマートフォンは「作る／学習／保存」の三画面へ分け、テンプレートの下部ページ切替コンポーネントを適用する。ヘルプは右上のボタンから開く。
+PCはページ一覧、中央画像、選択対象の操作を同時表示する。スマートフォンは「作る／学習／保存」の三画面へ分け、テンプレートの下部ページ切替コンポーネントを適用する。ヘルプは右上のボタンから開く。スマホで学習中は「問題と操作」から開く。
 
 学習画面は画像と「答えを見る／自己評価」を近接させる。下部ナビと学習アクションの合計高さを一元管理し、コンテンツ用余白にsafe-areaを含める。別々の固定バーを同じ位置へ重ねない。
 
@@ -602,7 +602,7 @@ Hide only the main informational footer using the existing smartphone layout que
 
 ## Header visibility
 
-Keep the header version visible on narrow smartphones without overlapping the app name or language/Help controls. Verify Japanese and English at 320px, 360px, 390px and desktop widths.
+When the header is shown, keep its version visible on narrow smartphones without overlapping the app name or language/Help controls. Verify Japanese and English at 320px, 360px, 390px and desktop widths.
 
 ## 付記：v1.1.0 スマートフォン編集UI（2026-10-28）
 
@@ -657,7 +657,7 @@ Keep the header version visible on narrow smartphones without overlapping the ap
 - 画像がない間は空のページ一覧と「新しい教材」を表示せず、画像追加・撮影・教材読み込みと設定を優先する。Undo可能な履歴が残る場合はUndoを隠さない。
 - 覆いの色は画像を追加する前にも変更でき、あとから追加した画像にも反映する。保存形式の互換性は変えない。
 - PCの「写真を撮る」は明示的な操作の後でカメラ権限を要求し、ライブプレビューを表示して撮影する。カメラ映像は端末内でJPEG化して通常の画像取り込みへ渡す。画面を閉じる、タブを隠す、ページ移動する際には映像トラックを停止する。スマホは既存の撮影入力を維持する。
-- 出力教材HTMLは作成画面と同じ中立色のヘッダーを使い、スマホのヘルプボタンに余白とタップ領域を確保する。自由学習の問題ボタンはPCとスマホで統一感のある形状にする。
+- 出力教材HTMLは作成画面と同じ中立色のヘッダーを使い、スマホで学習中はヘッダーを隠し、「問題と操作」内のヘルプボタンにタップ領域を確保する。自由学習の問題ボタンはPCとスマホで統一感のある形状にする。
 
 ## 付記：最初の一問までの操作
 

diff --git a/README.md b/README.md
@@ -90,7 +90,7 @@ On smartphones, **Create / Study / Save** stays in bottom navigation. After impo
 
 Use **Place covers** to draw covers, or **Move image** to pan. Within the pan limits, the image follows your finger by the same distance regardless of zoom. A two-finger pinch zooms in either mode, and a remaining finger can continue panning. Selecting a cover shows **Adjust**, duplicate, and delete near the image without changing the image area. On short screens these actions overlay the image's lower edge; on very short landscape screens they share the bottom dock with the four editing tools, clear of the zoom controls. **Adjust** opens Move / Size controls with 1 / 5 / 10 image-pixel steps. **Covers** opens grouping and question settings. **More** contains image import, camera, color, and local-saving settings. **Take photo** uses a camera-capable chooser where supported; regular image selection remains available.
 
-On phones, **One at a time** zooms in on the current question and marks its covers with the question number. Tap the percentage to see the whole page. In **Reveal freely**, tap the same spot to show or hide an answer. Open **Study tools** to choose a page or question.
+On phones, **One at a time** zooms in on the current question and marks its covers with the question number. Tap the percentage to see the whole page. In **Reveal freely**, tap the same spot to show or hide an answer. On phones the header is hidden while studying. Open **Study tools** to choose a page or question, switch languages, or read the help.
 
 ## Keyboard shortcuts
 

diff --git a/README.ja.md b/README.ja.md
@@ -93,7 +93,7 @@ Windows:
 
 グループ化や問題文は「覆い一覧」、画像追加・撮影・色・端末内保存は「その他」から開きます。「写真を撮る」は対応するブラウザでカメラ付きのファイル選択画面を開きます。通常の画像選択も利用できます。
 
-スマホの「一問ずつ」では、今の問題に番号が付き、その周りが拡大されます。倍率の数字を押すと画像全体に戻れます。「自由にめくる」では、答えの場所を押すたびに開閉します。ページや問題を選ぶときは「問題と操作」を開いてください。
+スマホの「一問ずつ」では、今の問題に番号が付き、その周りが拡大されます。倍率の数字を押すと画像全体に戻れます。「自由にめくる」では、答えの場所を押すたびに開閉します。スマホで学習中はヘッダーが隠れます。ページや問題を選ぶとき、言語を切り替えたり使い方を見たりするときは「問題と操作」を開いてください。
 
 ## キーボード操作
 

diff --git a/CHANGELOG.md b/CHANGELOG.md
@@ -1,5 +1,7 @@
 ## Unreleased
 
+- Hid the header during mobile study and moved its controls into Study tools in the app and exported lessons.
+
 - Enlarged the study image on phones, framed the current guided question, and added tap-to-hide in free study, including exported lessons.
 
 - Placed brief instructions beside the image picker and folded import options below it.
